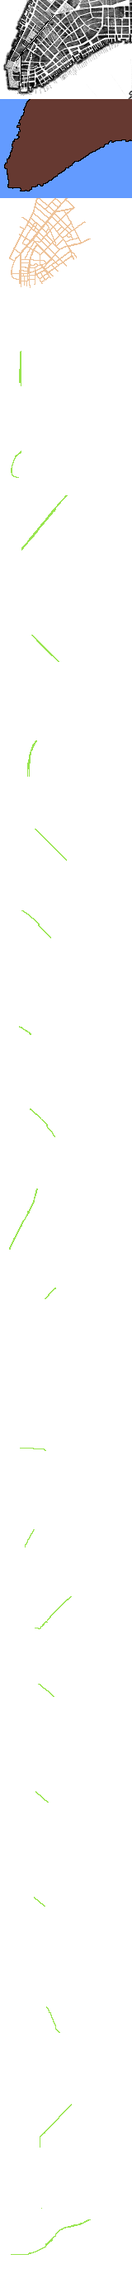
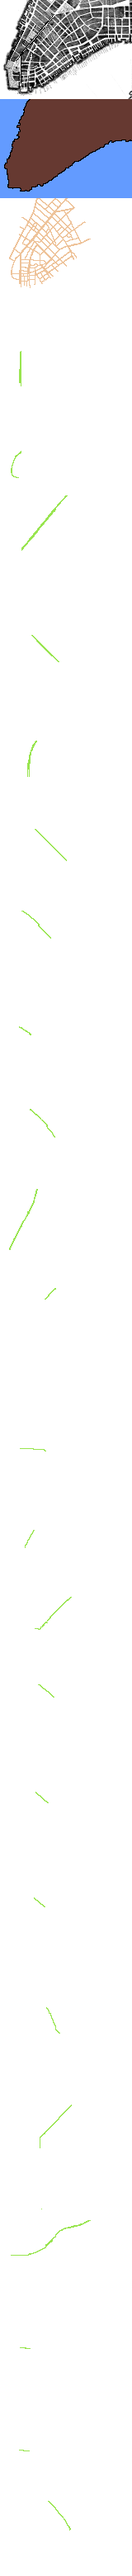
Remove Highlights group. Add Stone, Bridge, John streets.

Changed region(s): [[0.0, 0.0, 1.0, 0.187], [0.2188, 0.2804, 0.25, 0.3428]]

diff --git a/README.md b/README.md
@@ -16,7 +16,9 @@ Then visit http://localhost:8000/.
 ## Editing the map
 
 [Aseprite][] is required to edit the map at `manhattan.aseprite`. The metadata
-for each street name is stored in a separate layer in the "Highlights" layer group.
+for each street name is stored in a separate layer per street; they effectively
+function as masks and the actual RGB color of the street isn't important, as long
+as it's not completely transparent.
 
 Once you've edited the map, run `python3 export_spritesheet.py` to export it
 as a spritesheet and associated JSON metadata (alternatively, you can use
